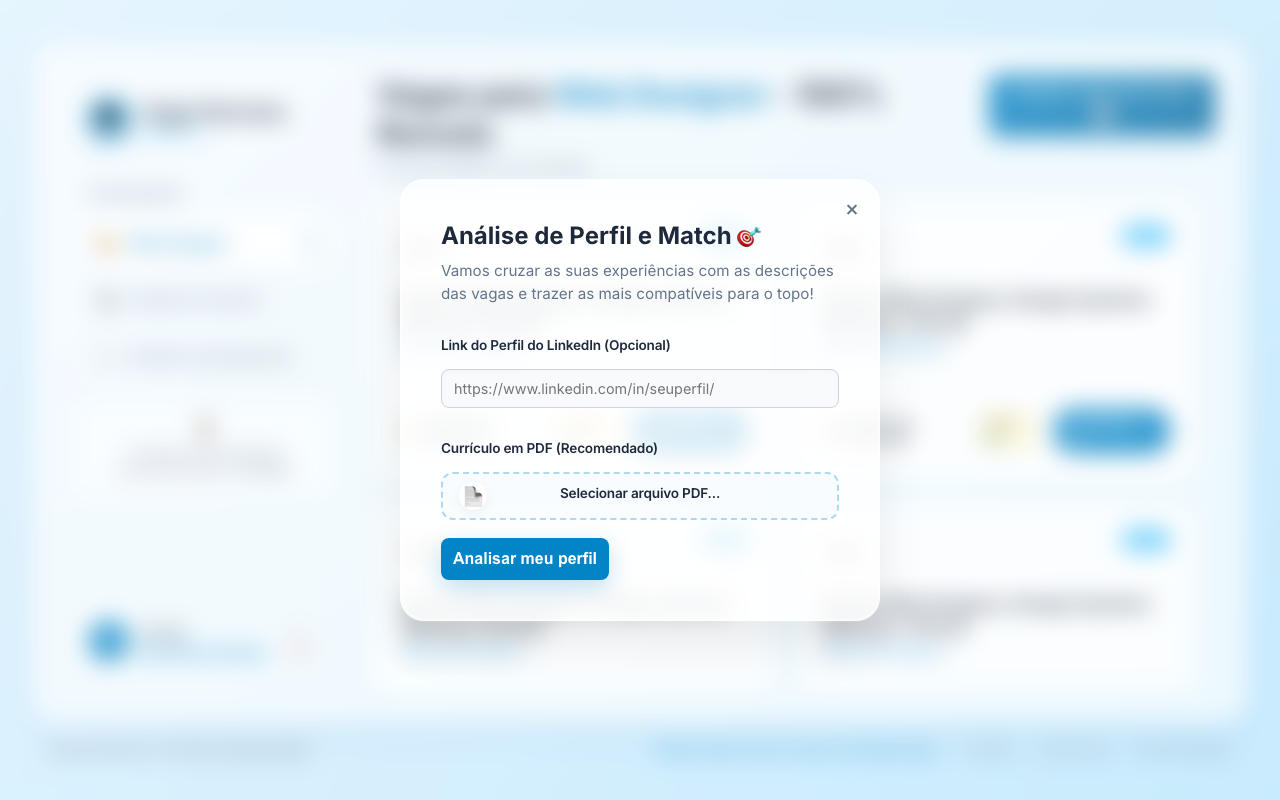
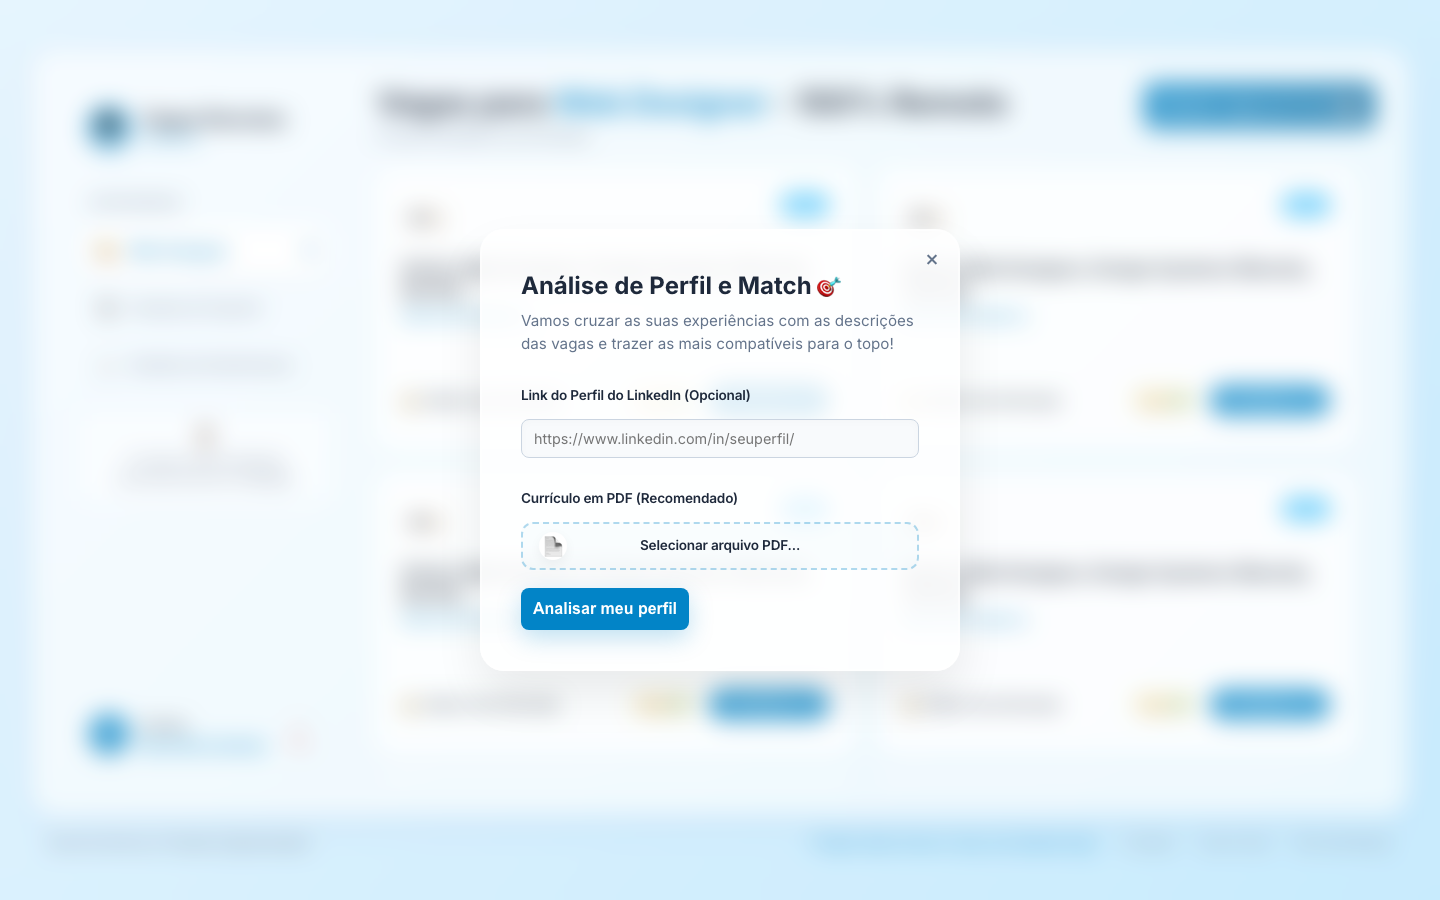
Increase screenshot viewport width to 1440 and remove object-fit from tutorial

diff --git a/vagas-app/src/components/ProfileModal.css b/vagas-app/src/components/ProfileModal.css
@@ -15,8 +15,13 @@
 }
 
 @keyframes fadeIn {
-  from { opacity: 0; }
-  to { opacity: 1; }
+  from {
+    opacity: 0;
+  }
+
+  to {
+    opacity: 1;
+  }
 }
 
 .modal-content {
@@ -34,7 +39,9 @@
 }
 
 @keyframes slideUp {
-  to { transform: translateY(0); }
+  to {
+    transform: translateY(0);
+  }
 }
 
 .close-btn {
@@ -82,7 +89,7 @@
   font-size: 1rem;
   outline: none;
   transition: all 0.3s ease;
-  box-shadow: 0 2px 8px rgba(0,0,0,0.02) inset;
+  box-shadow: 0 2px 8px rgba(0, 0, 0, 0.02) inset;
 }
 
 .glass-input:focus {
@@ -111,19 +118,20 @@
   font-size: 0.85rem;
   font-weight: 500;
   text-align: center;
-  height: 48px; /* Força uma altura fixa pequenininha */
+  height: 48px;
+  /* Força uma altura fixa pequenininha */
   box-sizing: border-box;
 }
 
-.file-label > span {
+.file-label>span {
   display: inline-flex;
   align-items: center;
   margin: 0;
   line-height: 1;
 }
 
-.file-label > span:not(.icon) {
-  margin-top: 5px;
+.file-label>span:not(.icon) {
+  margin-top: 7px;
 }
 
 .file-selected-state {
@@ -145,7 +153,7 @@
   display: flex;
   align-items: center;
   justify-content: center;
-  box-shadow: 0 4px 12px rgba(0,0,0,0.05);
+  box-shadow: 0 4px 12px rgba(0, 0, 0, 0.05);
   margin-right: 12px;
 }
 
@@ -191,7 +199,7 @@
   display: flex;
   align-items: center;
   justify-content: center;
-  box-shadow: 0 4px 12px rgba(0,0,0,0.05);
+  box-shadow: 0 4px 12px rgba(0, 0, 0, 0.05);
 }
 
 .file-label:hover {

diff --git a/vagas-app/public/tutorial.html b/vagas-app/public/tutorial.html
@@ -122,7 +122,7 @@
             width: 100%;
             height: auto;
             display: block;
-            object-fit: cover;
+            border-radius: 10px;
         }
 
         .footer-note {
